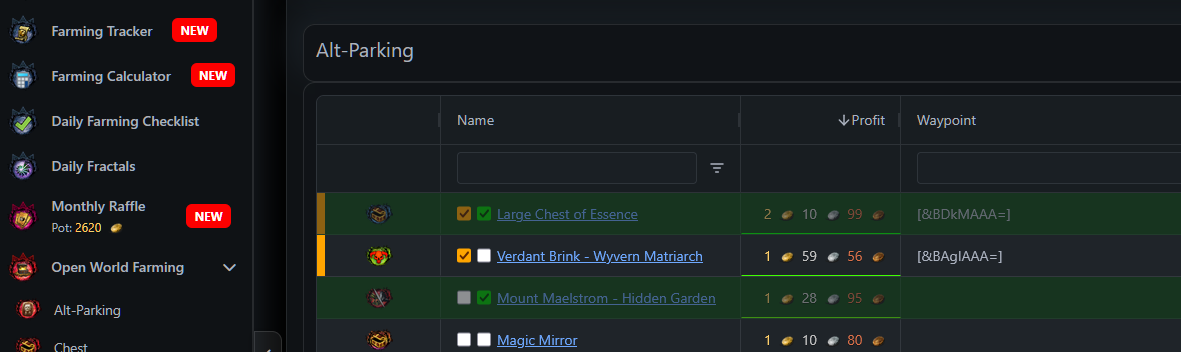
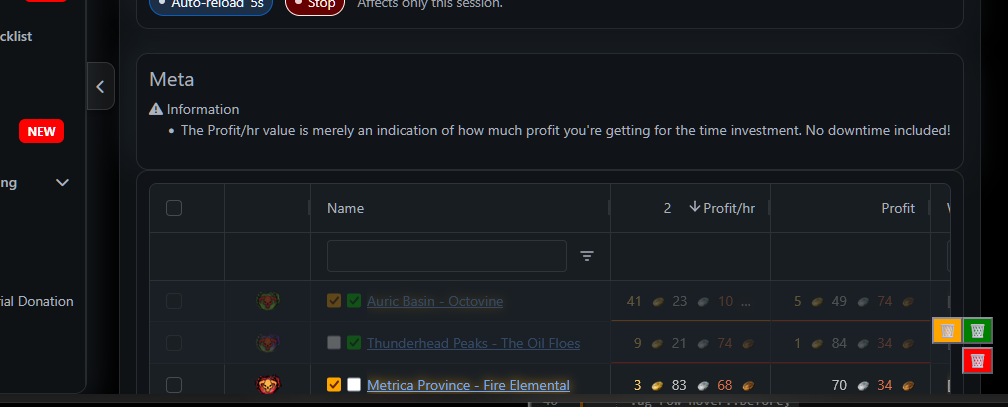
updated visual

diff --git a/ffCheckboxEverywhere.user.js b/ffCheckboxEverywhere.user.js
@@ -2,7 +2,7 @@
 // @name        Fast Farming Checkbox Everywhere
 // @namespace   https://github.com/raphaelwdrf/ffcheckboxew
 // @description Adds checkbox everywhere on Fast-farming site.
-// @version     1.2
+// @version     1.3
 // @updateURL   https://raw.githubusercontent.com/raphaelwdrf/ffcheckboxew/refs/heads/main/ffCheckBoxEverywhere.user.js
 // @downloadURL https://raw.githubusercontent.com/raphaelwdrf/ffcheckboxew/refs/heads/main/ffCheckBoxEverywhere.user.js
 // @supportURL  https://github.com/raphaelwdrf/ffcheckboxew/issues
@@ -54,8 +54,8 @@
 
                 // Restore visual state Done Checkbox
                 if (row && checkbox.checked) {
-                    row.style.opacity = '0.5';
-                    row.style.backgroundColor = 'rgba(0, 200, 0, 0.25)';
+                    row.style.opacity = '0.3';
+                    //row.style.backgroundColor = 'rgba(0, 200, 0, 0.25)';
                 }
 
                 checkbox.addEventListener('change', () => {
@@ -63,8 +63,8 @@
                     GM_setValue(STORAGE_KEY, state);
 
                     if (row) {
-                        row.style.opacity = checkbox.checked ? '0.5' : '';
-                        row.style.backgroundColor = checkbox.checked ? 'rgba(0, 200, 0, 0.25)' : '';
+                        row.style.opacity = checkbox.checked ? '0.3' : '';
+                        //row.style.backgroundColor = checkbox.checked ? 'rgba(0, 200, 0, 0.25)' : '';
                     }
                 });
 
@@ -80,15 +80,19 @@
 
                 // Restore visual state Priority Checkbox
                 if (row && priorityCheckbox.checked) {
-                    row.style.boxShadow = 'inset 8px 0 0 orange';
+                    //row.style.boxShadow = 'inset 8px 0 0 orange';
+                    row.style.textShadow = '0 0 10px orange';
                 }
                 priorityCheckbox.addEventListener('change', () => {
                     priorityState[nameKey] = priorityCheckbox.checked;
                     GM_setValue(PRIORITY_KEY, priorityState);
 
                     if (row) {
-                        row.style.boxShadow = priorityCheckbox.checked
+                        /*row.style.boxShadow = priorityCheckbox.checked
                             ? 'inset 8px 0 0 orange'
+                            : '';*/
+                        row.style.textShadow = priorityCheckbox.checked
+                            ? '0 0 10px orange'
                             : '';
                     }
                 });
@@ -144,8 +148,7 @@
                 const row = cb.closest('.ag-row');
                 if (row) {
                     row.style.opacity = '';
-                    row.style.backgroundColor = '';
-                    row.style.boxShadow = '';
+                    //row.style.textShadow = '';
                 }
             })
 
@@ -194,9 +197,8 @@
 
                 const row = cb.closest('.ag-row');
                 if (row) {
-                    row.style.opacity = '';
-                    row.style.backgroundColor = '';
-                    row.style.boxShadow = '';
+                    //row.style.opacity = '';
+                    row.style.textShadow = '';
                 }
             })
 
@@ -237,8 +239,7 @@
                 const row = cb.closest('.ag-row');
                 if (row) {
                     row.style.opacity = '';
-                    row.style.backgroundColor = '';
-                    row.style.boxShadow = '';
+                    row.style.textShadow = '';
                 }
             })
 

diff --git a/changelog.md b/changelog.md
@@ -1,5 +1,9 @@
 ## Changelog
 
+### v1.3
+- Reduced visual impact of “Done” items (lower opacity instead of background color).
+- Changed Priority highlight from left border to orange text glow.
+
 ### v1.2
 - Added **separate reset buttons per page**:
   - One button to reset **Done** items only.
